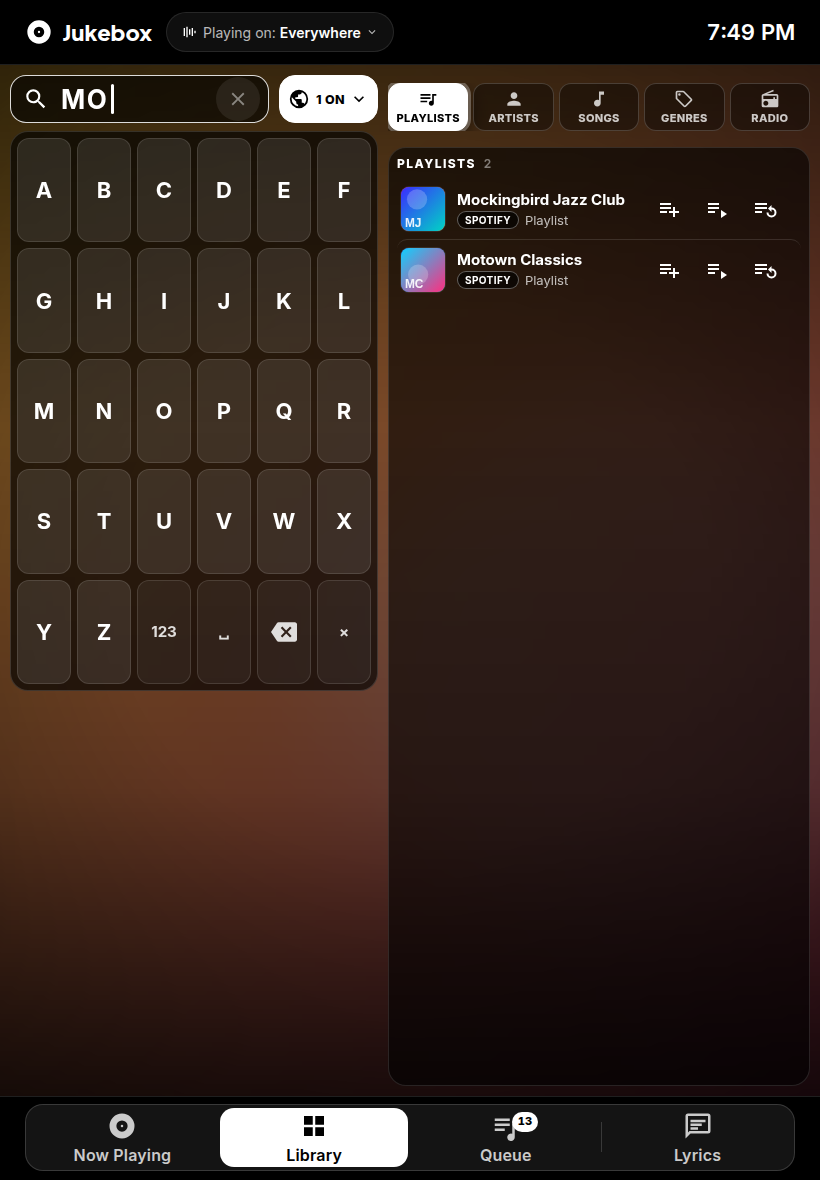
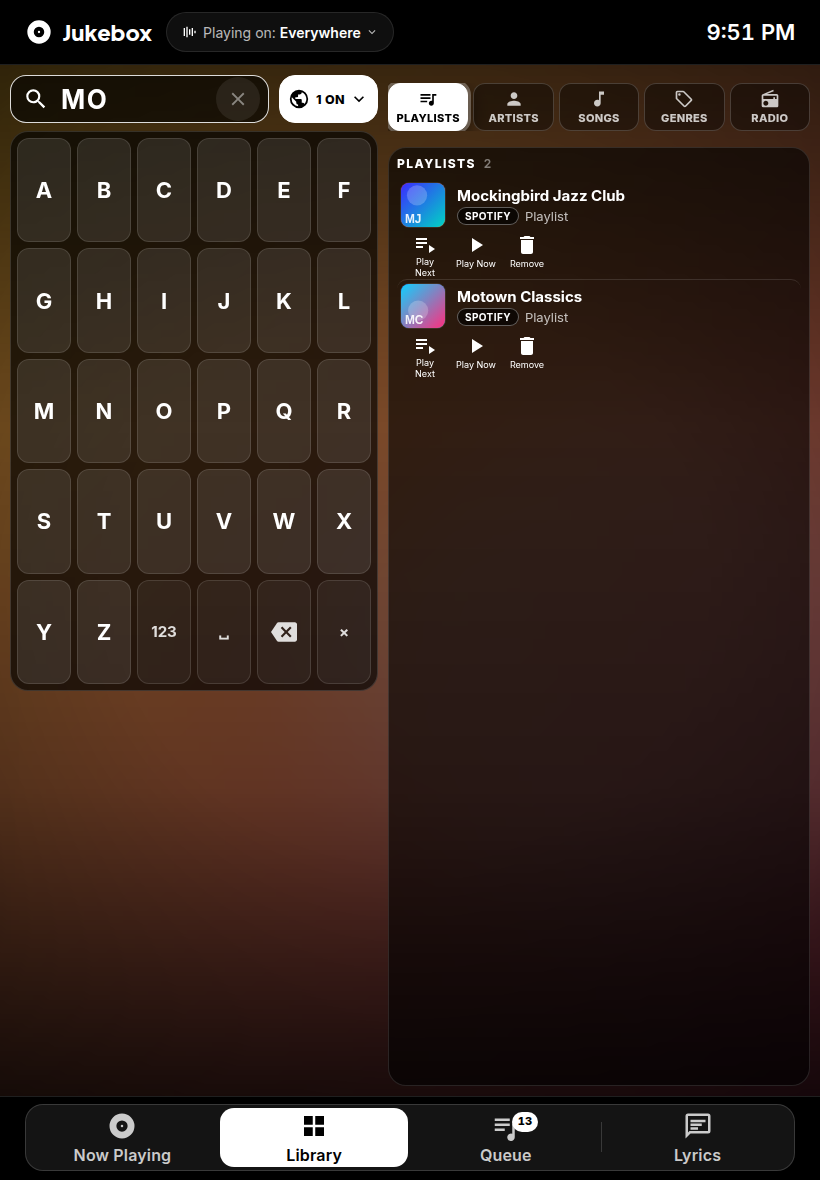
docs: labeled queue actions (Play Next / Play Now / Remove)
Document the row labels from #23 and refresh the queue and library screenshots that still showed icon-only actions.

diff --git a/README.md b/README.md
@@ -6,7 +6,7 @@ Jukebox Kiosk is a Home Assistant integration that ships the **Jukebox Card**, a
 
 - **One install.** Setting up the integration serves the card from `/jukebox_kiosk_static/jukebox-card.js` and loads it on every dashboard. You don't add a resource, and you don't unzip fonts.
 - **Its own Music Assistant API.** The integration borrows the connection the official Music Assistant integration already holds and exposes it as `jukebox_kiosk/*` WebSocket commands. It forwards only an allowlist of Music Assistant commands, and every one is checked against the calling Home Assistant user (see [Permissions](#permissions)).
-- **Every card feature without mass_queue.** Queue reading and editing (Play now, Play next, Move, Remove with Undo), album/artist/playlist/podcast track lists with server-side paging, lyrics, speaker grouping and transfer, and removing favourites.
+- **Every card feature without mass_queue.** Queue reading and editing (Play Now, Play Next, Move, Remove with Undo), album/artist/playlist/podcast track lists with server-side paging, lyrics, speaker grouping and transfer, and removing favourites.
 - **Live queue.** The card subscribes to queue changes (`jukebox_kiosk/subscribe_queue`) instead of polling.
 
 The card's element is still `custom:jukebox-card`, so existing dashboards keep working. Version history is in [CHANGELOG.md](CHANGELOG.md), and building and tests are in [docs/DEVELOPMENT.md](docs/DEVELOPMENT.md).
@@ -64,7 +64,7 @@ The card talks to Music Assistant through one of three backends. Set `backend` i
 | `mass_queue` *(legacy)* | `mass_queue.*` services, as in 0.5.x | Needs `mass_queue_entry_id`. Kept for anyone not ready to install the integration. |
 | `native` | the official `music_assistant` services only | Search, Browse grid, transport, volume and playing music. No queue tab, track lists, lyrics or grouping. |
 
-On the kiosk backend the card asks `jukebox_kiosk/capabilities` once per connection and hides what the server reports as unavailable: queue icons (`queue_play`, `queue_edit`), Undo, the remove-favourite heart (`unfavorite`), the Speakers panel's grouping (`speakers`) and the Lyrics tab (`lyrics`).
+On the kiosk backend the card asks `jukebox_kiosk/capabilities` once per connection and hides what the server reports as unavailable: Move up and Move down when `queue_edit` is off, Undo, the remove-favourite heart (`unfavorite`), the Speakers panel's grouping (`speakers`) and the Lyrics tab (`lyrics`). Play Next, Play Now and Remove stay on the Queue rows; they are greyed when `queue_play` is off.
 
 ## Permissions
 
@@ -207,16 +207,16 @@ The layout is designed around a 1280x800 tablet. On larger screens the whole car
 - **Reading.** The queue comes from `mass_queue.get_queue_items {entity, limit_before: 1, limit_after: queue_limit (1–1000)}` with `return_response`. It refreshes when the tab opens, when the track, state or shuffle changes, and after every action.
 - **Layout.** The previous track is dimmed. "Now playing" is the highlighted white row, then a numbered "Up next" list. "+ N more in Music Assistant" appears when the queue is longer than the list.
 - **Tap a row** to send `mass_queue.play_queue_item {entity, queue_item_id}`.
-- **Row buttons.** ↑ and ↓ send `move_queue_item_up` and `move_queue_item_down`; they are hidden on phones. **⋮** or a long-press opens a menu: Play now, Play next (`move_queue_item_next`), Move up, Move down, Remove (`remove_queue_item`). Every action sends exactly `{entity, queue_item_id}`.
-- **Header.** The Queue tab badge shows how many items are left.
-- **0.5.0 row icons** (for users allowed to group, see `grouping`; guests keep the 0.4 rows). They go through `mass_queue.send_command` with the MA queue id, and fall back to the 0.4 services when `mass_queue_entry_id` is not set:
-  - **Play now** (not on the playing row) asks first, "Play this now? The current song will stop.", then sends `player_queues/play_index {queue_id, index: queue_item_id}`. Every Play now (icon, ⋯ sheet, long-press menu, row tap) only moves playback to that item: the queue keeps its items and order, and nothing is replaced, cleared or moved.
-  - **Play next** sends `player_queues/move_item {queue_id, queue_item_id, pos_shift: (current + 1) − index}`, no dialog; disabled on the row that is already next, absent on played rows. If MA has already buffered the next track it ignores the move and the card shows MA's order again.
-  - **Move up / Move down**: as in 0.4, no dialog.
-  - **Remove** (never the playing row or played rows) sends `player_queues/delete_item {queue_id, item_id_or_index: queue_item_id}`, no dialog, and shows "Removed <title>. Undo" for 5 s. **Undo** re-adds the track's URI (`player_queues/play_media {queue_id, media: uri, option: add}`), finds the new row (`player_queues/items`) and moves it back (`move_item`). If it can only be re-added at the end, or not at all, the toast says so.
-  - Phones (card ≤ 520 px wide): Play next and Remove stay on the row; **⋯** opens an action sheet with Play now…, Play next, Move up, Move down, Remove. Wider cards show all five icons (44 px targets, right-aligned).
-  - Tapping a row and the long-press menu keep the 0.4 behaviour.
-  - The track Music Assistant is already loading (the one after the playing track, near its end) can't be moved or removed: those rows have no Play next / Remove and their Move buttons are off. If MA refuses anyway, the toast says "That track is already loading" and the queue reloads.
+- **Row actions.** Every song row shows three buttons with an icon and a label, in this order: **Play Next**, **Play Now**, **Remove**. On a wide card they sit beside the title. Move up and Move down stay as the ↑ and ↓ arrows beside them (`move_queue_item_up` and `move_queue_item_down`). On a phone (the card is 520 px wide or less) Play Next, Play Now and Remove sit on their own row under the title, the arrows are hidden, and **⋯** opens an action sheet with Play Now, Play Next, Move up, Move down and Remove. A long-press opens that menu.
+- **Search queue.** **Search queue** in the header opens a box and an on-screen keyboard that stays open. The list shows songs whose title, artist or album contains what you type. **Done** closes the search and clears it.
+- **Header.** The Queue tab badge shows how many items are left, and the header says how many are up next.
+- **Play Now, Play Next and Remove** go through `mass_queue.send_command` with the MA queue id, and fall back to the 0.4 services when `mass_queue_entry_id` is not set. Someone who may not change the queue (see `grouping`, or `queue_play` off) still sees the three labels; they are greyed and do nothing.
+  - **Play Now** asks first, "Play this now? The current song will stop.", then sends `player_queues/play_index {queue_id, index: queue_item_id}`. It only moves playback to that item: the queue keeps its items and order, and nothing is replaced, cleared or moved. It is greyed on the song that is playing.
+  - **Play Next** sends `player_queues/move_item {queue_id, queue_item_id, pos_shift: (current + 1) − index}`, no dialog. It is greyed on the row that is already next, on the song playing now, and on songs that have already played. If MA has already buffered the next track it ignores the move and the card shows MA's order again.
+  - **Move up / Move down**: no dialog.
+  - **Remove** sends `player_queues/delete_item {queue_id, item_id_or_index: queue_item_id}`, no dialog, and shows "Removed <title>. Undo" for 5 s. **Undo** re-adds the track's URI (`player_queues/play_media {queue_id, media: uri, option: add}`), finds the new row (`player_queues/items`) and moves it back (`move_item`). If it can only be re-added at the end, or not at all, the toast says so. Remove is greyed on the song playing now, on songs already played, and on the track Music Assistant is already loading.
+  - An action that cannot be used stays on the row, greyed. It is not hidden.
+  - The track Music Assistant is already loading (the one after the playing track, near its end) can't be moved or removed: Play Next and Remove are greyed and the Move buttons are off. If MA refuses anyway, the toast says "That track is already loading" and the queue reloads.
 
 ### Speakers (0.5.0)
 
@@ -247,10 +247,10 @@ The layout is designed around a 1280x800 tablet. On larger screens the whole car
   - At start the card makes one `limit: 1` call per category and **hides the categories that are empty**, such as Radio, Podcasts and Audiobooks when the library has none.
 - **Favorites and sort.** On the combined tab these are the heart and the sort button at the end of the category row. On the separate Library tab they stay in the bar above the list: a **Favorites** toggle, and a sort chip. The cycle is A–Z (`name`), then Recently added (`timestamp_added_desc`), then Recently played (`last_played_desc`). Radio starts on Popular (`play_count_desc`; `get_library` has no popularity order, so this is your own play count), then A–Z, Recently added and Recently played. Genres use A–Z and Recently added, and have no Favorites control.
 - **Layout.** Tile grid with provider badges; tracks show as rows. Pages are cached per category, favorite and sort, and load more on scroll.
-- **Tap never plays.** Artists, albums, playlists (and podcasts with mass_queue) open the detail view described under Search, with the same rows, icons and confirmations. Other tiles open a small sheet (Play next, Add to queue, Replace queue…, Start radio…). **Long-press** opens a menu: Open, Play next, Add to queue, Replace queue, Start radio (not shown for radio stations); Replace and Start radio confirm first.
+- **Tap never plays.** Artists, albums, playlists (and podcasts with mass_queue) open the detail view described under Search, with the same **Play Next**, **Play Now** and **Remove** labels and the same confirmations. Other tiles open a small sheet: Play Now, Play Next, Remove. **Long-press** opens a menu: Open (when the item has a page), Play Now, Play Next, Remove, another Play Now that asks before it replaces the queue, and Start radio… for a track, artist or album. Start radio asks first. Add to queue is not on the row or in that menu.
 - **Radio.** Browse > Radio lists `get_library {media_type: radio}`. If the library has no stations (Radio Browser stations you haven't saved), it falls back to `music_assistant.search {name: radio, media_type: [radio]}` and says so above the grid. Station names are trimmed (Radio Browser pads some with tabs), every station has a **Radio** badge, and a station with no logo or a dead logo gets a radio-tower image. A tap sends `play_media {media_id: radiobrowser://radio/…, media_type: radio, enqueue: play}` to `media_player.everywhere`, never with `radio_mode`.
 - **Drill-down.** The › button on artist, album and playlist tiles, or Open in the menu, opens a detail page:
-  - a back button, Play, Shuffle, Add to queue and Start radio (`radio_mode: true`, tracks / artists / albums only), and a track list with per-row icons (tapping a track only highlights it)
+  - a back button, Play, Shuffle, Add to queue and Start radio (`radio_mode: true`, tracks / artists / albums only), and a track list whose rows are labeled **Play Next**, **Play Now** and **Remove** (tapping a track only highlights it)
   - with `mass_queue_entry_id`, tracks come from `mass_queue.get_album_tracks` / `get_artist_tracks` / `get_playlist_tracks {config_entry_id: <mass_queue entry>, uri[, page]}` with `return_response`. Each row shows its duration, and the header shows the count and total time ("9 tracks · 43 min", with "+" while more pages may follow)
   - playlists are paged: the card asks for `page: 0` first, then `page: 1, 2, …` (0–1000) when you scroll to the end or tap **Load more tracks**. mass_queue 0.10 returns the whole playlist for page 0, so usually there is one call; paging stops on an empty page, a page shorter than the first, or a page that repeats tracks already shown
   - artists also get an Albums row from `music_assistant.search`
@@ -285,19 +285,19 @@ The layout is designed around a 1280x800 tablet. On larger screens the whole car
 - **Slow Music Assistant.** If a reply takes more than `slow_ms` (800 ms), the card keeps one call in flight and queues only the latest query. Keystrokes in between are merged into that one.
 - **Results.** They are grouped as Artists, Albums, Tracks, Playlists, Radio, Audiobooks and Podcasts, with filter chips. **Empty groups and their chips are hidden**, so Radio (when no radio provider answers), Audiobooks and Podcasts don't show. Radio items get a **Radio** badge, a 'Live radio' subtitle, and no Start radio action. Each item has a provider badge taken from its URI scheme, because MA items have no provider field (`library://…` → LIBRARY, `apple_music://…` and `apple_music--XXXXXXXX://…` → APPLE MUSIC).
 - **Every result is a list row**: art (round for artists) or an icon, title, subtitle (provider badge, type, artist / album; on phones the track length joins the subtitle). Titles truncate with an ellipsis; rows are at least 56 px tall.
-- **Row icons** (48 px, 44 px on phones), each with an `aria-label`:
+- **Row actions.** Each song row shows an icon and a visible label, at least 44 px, in this order:
 
-  | Icon | `play_media` data | Confirmation |
+  | Button | What it sends | Confirmation |
   |---|---|---|
-  | Add to queue | `enqueue: add` | none |
-  | Play next | `enqueue: next` | none |
-  | Replace queue | `enqueue: replace` | "Replace the current queue? This clears what's playing for everyone." Cancel / Replace |
-  | Start radio (radio-tower icon) | `enqueue: replace, radio_mode: true` | "Start radio from “…”? This replaces the current queue for everyone." Cancel / Start radio |
+  | Play Next | `play_media` with `enqueue: next` | none; it runs at once |
+  | Play Now | `play_media` with `enqueue: replace` | "Replace the current queue? This clears what's playing for everyone." Cancel / Replace |
+  | Remove | takes that item off the queue if it is already there; it does not add anything | none; it runs at once |
+  | Start radio | `play_media` with `enqueue: replace, radio_mode: true` | "Start radio from “…”? This replaces the current queue for everyone." Cancel / Start radio |
 
-  Start radio is shown only for tracks, artists and albums. It is hidden for radio stations, podcasts, episodes, audiobooks and playlists (playlist seeds are not confirmed to work in MA). Nothing is sent until you confirm; Cancel, Esc or tapping outside sends nothing. A second tap on an icon while its call is still on its way is dropped.
-  When a row is too narrow for four icons (under about 330 px, e.g. a 320 px phone), Replace and Start radio fold into a **⋯** menu (Replace queue…, Start radio…), which still confirm.
+  Start radio is shown only for tracks, artists and albums. It is hidden for radio stations, podcasts, episodes, audiobooks and playlists (playlist seeds are not confirmed to work in MA). Play Next and Remove send at once. Play Now and Start radio send nothing until you confirm; Cancel, Esc or tapping outside sends nothing. A second tap on a button while its call is still on its way is dropped. Add to queue is not one of these row buttons.
+  On a phone, and when the list is narrow (under about 450 px), Play Next, Play Now and Remove sit on their own row under the title. When the list is under about 720 px, Start radio moves into **More** as **Start radio…**, which still asks first.
 - **Tapping a row never plays.** An artist, album, playlist (or podcast) opens its detail view in place; a track or station row is only highlighted. Long-press does the same.
-- **Detail views** (from Search, Browse or Enter on the top result): Back, Play, Shuffle, Add to queue and, where the seed is supported, Start radio. Play and Shuffle replace the queue, so they ask first; Add to queue does not. Tracks, an artist's albums and podcast episodes use the same rows and icons; an album row inside an artist opens that album.
+- **Detail views** (from Search, Browse or Enter on the top result): Back, Play, Shuffle, Add to queue and, where the seed is supported, Start radio. Play and Shuffle replace the queue, so they ask first; Add to queue does not. Tracks, an artist's albums and podcast episodes use the same **Play Next**, **Play Now** and **Remove** labels; an album row inside an artist opens that album.
   - **Play** sends `play_media … enqueue: replace`; if the player is shuffling it first sends `media_player.shuffle_set {shuffle: false}` (awaited) so the list plays in order.
   - **Shuffle** sends `media_player.shuffle_set {shuffle: true}` to the player, waits for it, then `play_media … enqueue: replace`. Music Assistant applies the queue's shuffle flag as it loads the new items, so the whole album / playlist / artist plays in random order using documented services only (no client-side reordering of URIs).
   - Track lists come from mass_queue when `mass_queue_entry_id` is set. Without it, albums and artists fall back to a search, labelled "matched by search" with a note; playlists say that mass_queue is needed for their tracks (Play / Shuffle still work).
@@ -378,7 +378,7 @@ Entity ids in the [configuration example](#configuration) are examples. The defa
 | `lyrics_offset_ms` | `500` (−5000–5000) | Shift for synced lyrics; positive shows lines sooner |
 | `speaker_mode` | `fixed` | `fixed`: always play on `entity`; the Speakers panel is a volume mixer and a 0.4 config makes exactly the same calls. `dynamic`: pick where to play, group, move and use presets. See [Speakers](#speakers-050) |
 | `targets` | all MA players | `dynamic` only: `[{entity, name?, members?}]` or entity ids the card may play on |
-| `grouping` | `admins` | Who may group, move, pick the target and use the queue's Play now / Play next / Remove icons: `admins`, `everyone` or `nobody`. **A UI lock, not security** |
+| `grouping` | `admins` | Who may group, move, pick the target and use Play Now, Play Next and Remove on the queue: `admins`, `everyone` or `nobody`. Anyone else still sees those three labels, greyed. **A UI lock, not security** |
 | `grouping_users` | `[]` | Extra users (name or user id) treated like admins for the above |
 | `guest_access` | `volume` | Everyone else in the Speakers panel: `volume` or `none` (read only) |
 | `leader_drop` | `allow` | Dropping the leader of a playing group: `allow` (MA re-forms the group on the other rooms after about 6 s of silence; the panel shows "Regrouping…"), or `block` (hand off with Move) |
@@ -419,7 +419,7 @@ Not in 0.7.x: joining a speaker to a dynamic group so playback resumes on it, an
 
 - **The card says "Custom element doesn't exist: jukebox-card".** Make sure Jukebox Kiosk is set up (not only installed), then reload the browser. Fully Kiosk may need **Clear cache**.
 - **The card loads twice, or shows the old version.** An old `/hacsfiles/ha-jukebox-kiosk-card/` (or `/local/community/ha-jukebox-kiosk-card/`) resource is still there. See the Repairs issue, or delete it under **Settings → Dashboards → Resources**.
-- **Queue icons, the heart or grouping are missing for one user.** That user is a guest without the matching class (see [Permissions](#permissions)).
+- **Play Next, Play Now or Remove are greyed, or the heart or grouping is missing, for one user.** Greyed queue actions mean that person may not change the queue (`grouping`, or `queue_play` left off). A missing heart means no `library` class (see [Permissions](#permissions)).
 - **Lyrics say "Lyrics unavailable".** Music Assistant has no lyrics provider enabled, or the user lacks `read`. Music Assistant won't fetch lyrics for library tracks, so the card asks for the provider copy of the track.
 - **No album art.** The card never loads the player's absolute `entity_picture` (mixed content on https). It uses `entity_picture_local`, then a relative `entity_picture`, then an https queue image.
 - **Typing or volume drags stutter on a kiosk tablet.** Set `backdrop` to `light`, `static` or `off`.

diff --git a/CHANGELOG.md b/CHANGELOG.md
@@ -6,8 +6,13 @@ All notable changes to Jukebox Card. Versions follow [semver](https://semver.org
 
 ## 0.7.6 — 2026-11-05
 
+### Added
+- **Search queue.** On the Queue tab, **Search queue** opens an on-screen keyboard that stays open. The list narrows to songs whose title, artist or album matches what you type. **Done** closes the search.
+
 ### Changed
-- Queue buttons now read Play Next, Play Now and Remove everywhere.
+- **Play Next, Play Now and Remove.** Song rows in the Library, in search, on a playlist or artist page, and on the Queue tab show the same three actions, each with an icon and those words, in that order. On a phone, and when the row is narrow, the three sit on their own line under the title.
+- On the Queue tab, an action that cannot be used stays on the row, greyed out, instead of disappearing. **Remove** still offers **Undo**.
+- In the Library, in search and on a detail page, **Play Next** and **Remove** run straight away. **Play Now**, and **Start radio** where that is offered, still ask first. **Add to queue** is no longer a button on the song row. The row button that used to say Replace queue now says **Play Now**.
 
 ## 0.7.5 — 2026-11-05
 
